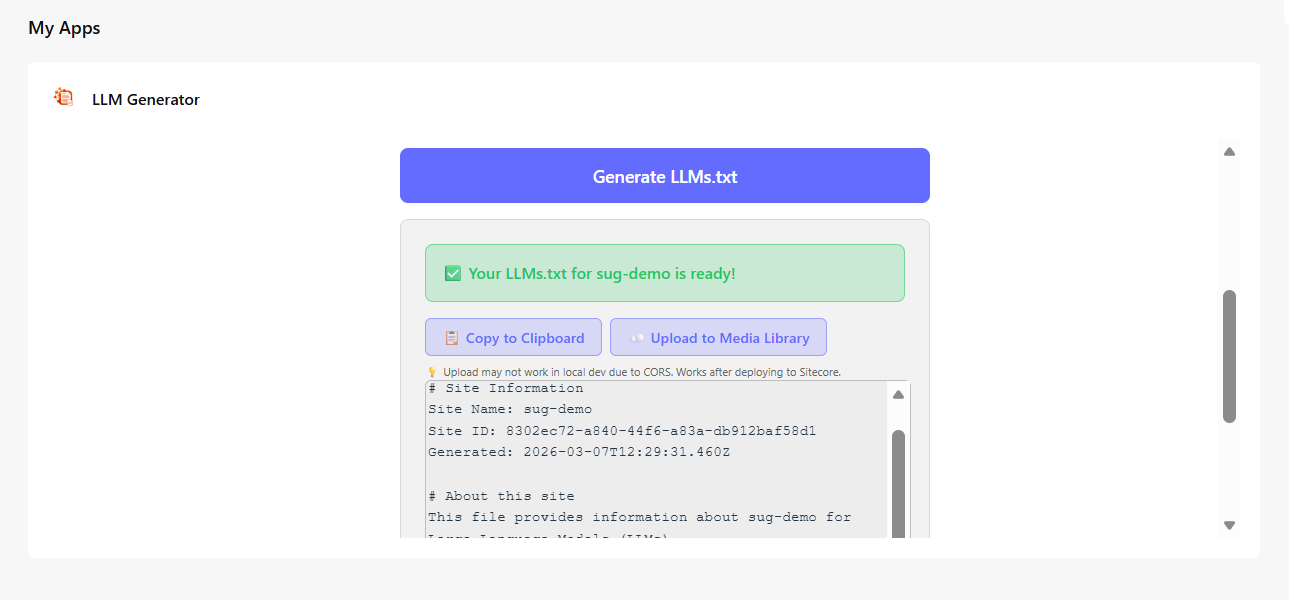
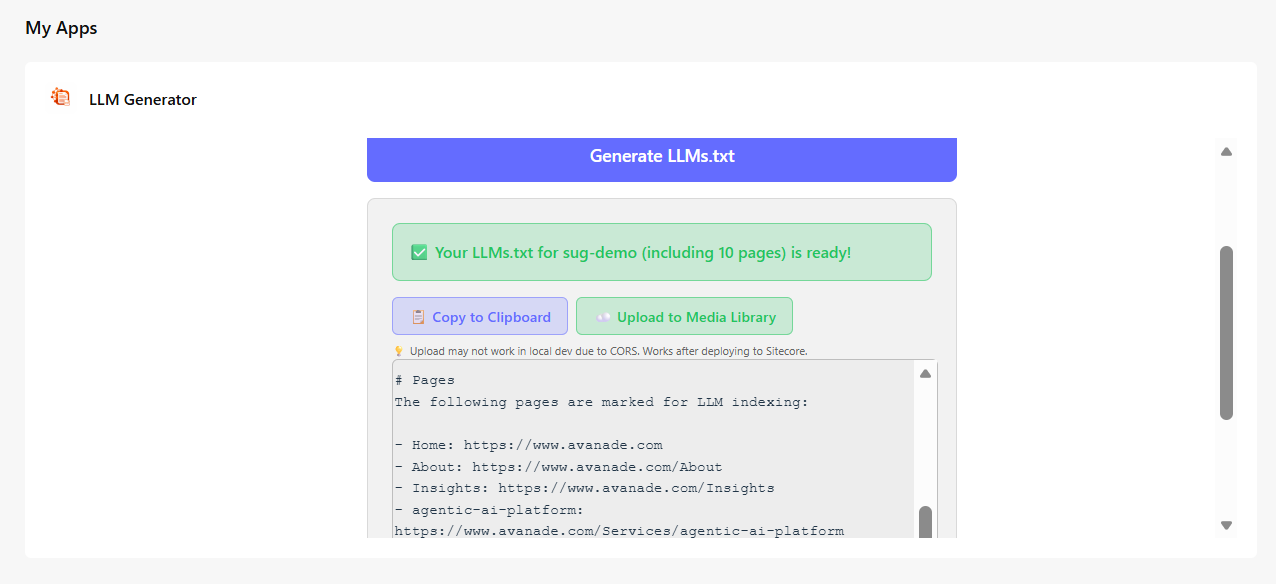
Readme updates

diff --git a/src/headapps/llmsgenerator/src/App.tsx b/src/headapps/llmsgenerator/src/App.tsx
@@ -268,24 +268,24 @@ export default function App() {
       const selectedSite = sites.find(s => s.id === selectedSiteId);
       console.log("Creating LLMs.txt for site:", selectedSite);
 
-      // Fetch pages marked for LLM indexing
-      setMessage("⏳ Fetching pages marked for LLM indexing...");
+      // Fetch pages marked for LLMs indexing
+      setMessage("⏳ Fetching pages marked for LLMs indexing...");
       const llmPages = await fetchLLMPages(selectedSiteId);
-      console.log(`Found ${llmPages.length} pages marked for LLM indexing:`, llmPages);
+      console.log(`Found ${llmPages.length} pages marked for LLMs indexing:`, llmPages);
 
-      // Generate llms.txt content with pages
-      setMessage("⏳ Generating llms.txt content...");
+      // Generate LLMs.txt content with pages
+      setMessage("⏳ Generating LLMs.txt content...");
       const llmsTxtContent = generateLlmsTxtContent(selectedSite, llmPages);
-      console.log("Generated llms.txt content:", llmsTxtContent);
+      console.log("Generated LLMs.txt content:", llmsTxtContent);
 
       // Store the generated content to display in the widget
       setGeneratedContent(llmsTxtContent);
 
       const pagesInfo = llmPages.length > 0 
         ? ` (including ${llmPages.length} page${llmPages.length !== 1 ? 's' : ''})`
-        : ' (no pages marked for LLM indexing)';
-      setMessage(`✅ Content generated for ${selectedSite?.name}${pagesInfo}! Use the copy button below.`);
-      console.log("✅ llms.txt content generated and displayed");
+        : ' (no pages marked for LLMs indexing)';
+      setMessage(`✅ Your LLMs.txt for ${selectedSite?.name}${pagesInfo} is ready!`);
+      console.log("✅ LLMs.txt content generated and displayed");
     } catch (error) {
       console.error("Error creating LLMs.txt:", error);
       setMessage(`❌ Error creating LLMs.txt: ${error}`);
@@ -325,7 +325,7 @@ export default function App() {
     }
 
     if (!generatedContent) {
-      setMessage("❌ No content to upload. Please generate llms.txt first.");
+      setMessage("❌ No content to upload. Please generate LLMs.txt first.");
       return;
     }
 
@@ -386,7 +386,7 @@ export default function App() {
       
       // Create FormData and append the file (using empty key as per Sitecore docs)
       const formData = new FormData();
-      formData.append('', blob, 'llms.txt');
+      formData.append('', blob, 'LLMs.txt');
 
       // POST the file to the pre-signed URL with SDK-provided context ID for authorization
       const uploadResponse = await fetch(presignedUrl, {
@@ -435,7 +435,7 @@ export default function App() {
       });
     }
 
-    return `# llms.txt for ${site.name}
+    return `# LLMs.txt for ${site.name}
 
 # Site Information
 Site Name: ${site.name}
@@ -446,7 +446,7 @@ Generated: ${new Date().toISOString()}
 This file provides information about ${site.name} for Large Language Models (LLMs).
 
 # Purpose
-This llms.txt file follows the llms.txt standard to help LLMs understand the structure
+This LLMs.txt file follows the LLMs.txt standard to help LLMs understand the structure
 and content of this Sitecore XM Cloud site.
 
 # Site Structure
@@ -478,19 +478,8 @@ For more details about this site, please refer to the Sitecore XM Cloud document
 
   return (
     <div className="app">
-      <div className="sites-list">
-        <h3>Available Sites ({sites.filter(site => site.id && site.name).length})</h3>
-        <ul>
-          {sites.filter(site => site.id && site.name).map((site) => (
-            <li key={site.id!}>
-              {site.name} <span className="site-id">({site.id})</span>
-            </li>
-          ))}
-        </ul>
-      </div>
-
       <div className="widget-content">
-        <h2>Select a site to get started</h2>        
+        <h2 class="chakra-heading css-5zcyhm"> We have {sites.filter(site => site.id && site.name).length} site(s) available</h2>        
         <div className="form-group">          
           <select
             id="site-select"

diff --git a/src/headapps/llmsgenerator/src/App.css b/src/headapps/llmsgenerator/src/App.css
@@ -1,7 +1,6 @@
 #root {
   max-width: 1280px;
   margin: 0 auto;
-  padding: 2rem;
   text-align: center;
 }
 
